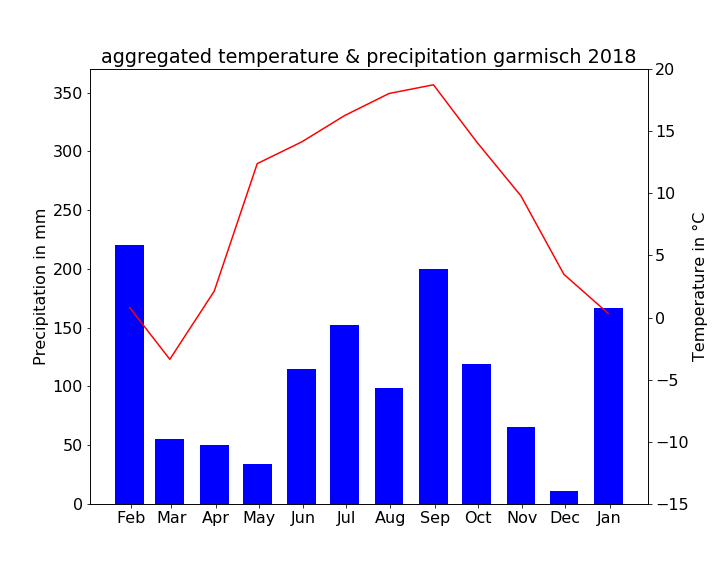
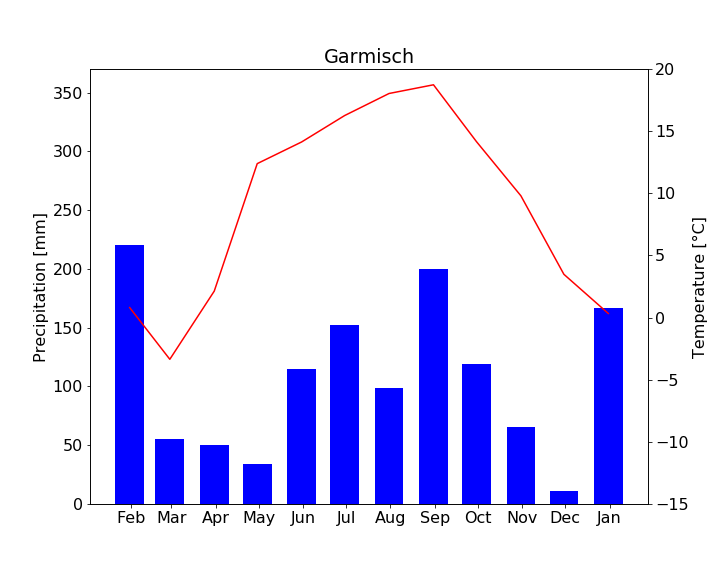
version update

Changed region(s): [[0.1222, 0.0625, 0.8861, 0.125], [0.0306, 0.3438, 0.0611, 0.6562], [0.9472, 0.375, 0.9778, 0.625]]

diff --git a/create_climate_diagrams.py b/create_climate_diagrams.py
@@ -22,9 +22,9 @@ zugs = pd.read_csv(data_dir / "produkt_klima_tag_20171010_20190412_05792.txt", s
 garmisch  = garm["2018"] 
 zugspitze = zugs["2018"] 
 
-# Resample the temperature data to monthly averages (" TMK") and store them in simple lists: [1P]
-garmisch_agg = list(garmisch.loc[:," TMK"].resample("1M").agg(["mean"])["mean"])
-zugspitze_agg = list(zugspitze.loc[:," TMK"].resample("1M").agg(["mean"])["mean"])
+# Resample the temperature data to monthly averages (" TMK") and the precipitation data to monthly sums (" RSK"): [1P]
+garmisch_agg = garmisch.loc[:, [" TMK", " RSK"]].resample("1M").agg({" TMK": "mean", " RSK": "sum"})
+zugspitze_agg = zugspitze.loc[:, [" TMK", " RSK"]].resample("1M").agg({" TMK": "mean", " RSK": "sum"})
 
 # Define a plotting function that draws a simple climate diagram
 # Add the arguments as mentioned in the docstring below [1P]
@@ -68,7 +68,7 @@ def create_climate_diagram(df,
     
     """
     dfAgg = df.loc[:,[temp_col,prec_col]].resample("1M").agg({temp_col:"mean",prec_col:"sum"})
-    fig = plt.figure(figsize=(10,8))
+    fig = plt.figure(figsize = (10,8))
     plt.rcParams['font.size'] = 16
 
     ax2 = fig.add_subplot(111)
@@ -85,16 +85,16 @@ def create_climate_diagram(df,
     ax1.xaxis.set_major_formatter(monthFmt)
     ax2.xaxis.set_major_formatter(monthFmt)
 
-    ax1.plot(dfAgg[temp_col],color="red",label="temperature")
-    ax2.bar(dfAgg.index,height=dfAgg[prec_col],color="blue",width=20,label="precipitation")
+    ax1.plot(dfAgg[temp_col],color="red",label="Temperature")
+    ax2.bar(dfAgg.index,height=dfAgg[prec_col],color="blue",width=20,label="Precipitation")
 
     # Set appropiate limits to each y-axis using the function arguments: [1P]
     ax1.set_ylim(temp_min,temp_max)
     ax2.set_ylim(prec_min,prec_max)
     
     # Set appropiate labels to each y-axis: [1P]
-    ax1.set_ylabel("Temperature in °C")
-    ax2.set_ylabel("Precipitation in mm")
+    ax1.set_ylabel("Temperature [°C]")
+    ax2.set_ylabel("Precipitation [mm]")
 
     # Give your diagram the title from the passed arguments: [1P]
     plt.title(title)
@@ -106,9 +106,9 @@ def create_climate_diagram(df,
 # Use this function to draw a climate diagram for 2018 for 
 # both stations and save the result: [1P]
 create_climate_diagram(garmisch, temp_col=" TMK", prec_col=" RSK",
-                       title="aggregated temperature & precipitation garmisch 2018",
+                       title="Garmisch",
                        filename = output_dir / "agg_clim_garmisch_2018.png")
 
 create_climate_diagram(zugspitze,temp_col=" TMK", prec_col=" RSK",
-                       title="aggregated temperature & precipitation zugspitze",
+                       title="Zugspitze",
                        filename = output_dir / "agg_clim_zugspitze_2018.png" )
